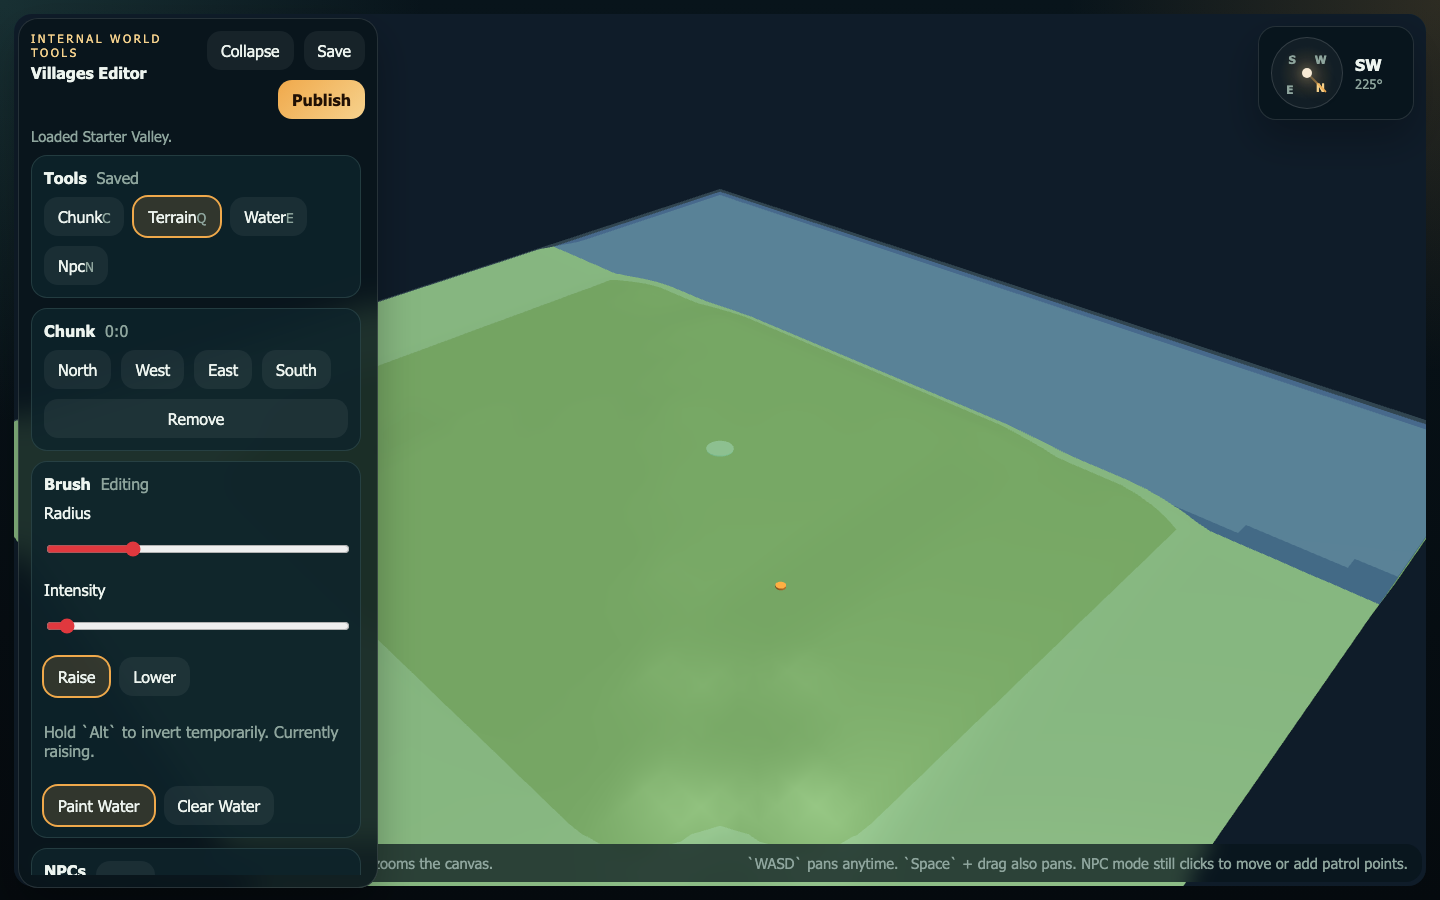
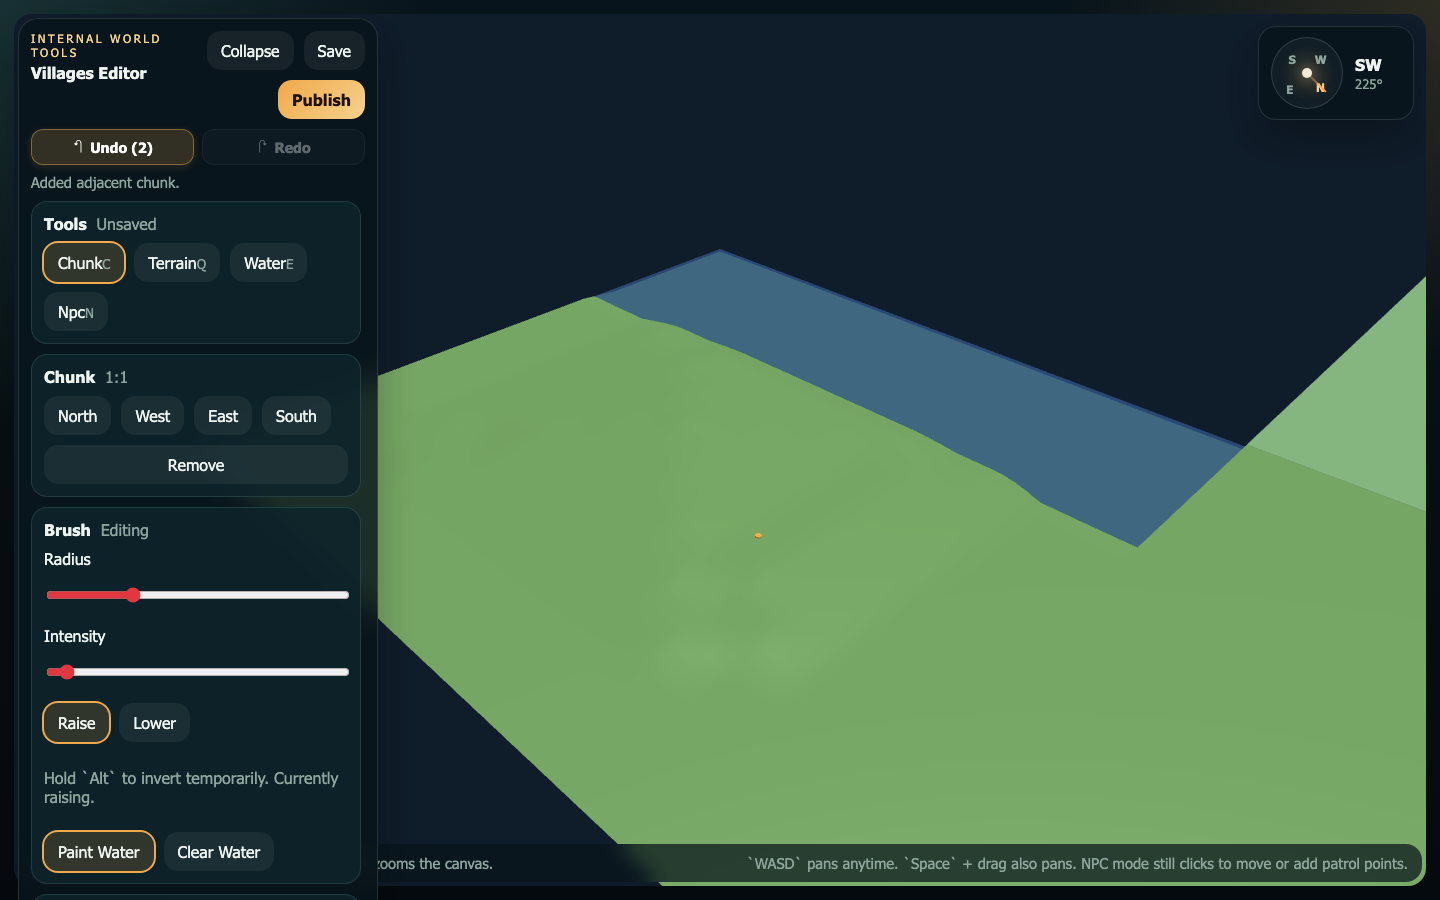
feat(editor): villages#1 Add dedicated undo/redo toolbar row and verified multi-state screenshots

diff --git a/apps/editor/components/map-editor-shell.tsx b/apps/editor/components/map-editor-shell.tsx
@@ -499,22 +499,6 @@ export function MapEditorShell() {
             <div className="toolbar-actions">
               <button
                 className="secondary-button"
-                disabled={!canUndo(history)}
-                onClick={handleUndo}
-                title="Undo (⌘Z / Ctrl+Z)"
-              >
-                Undo {history.undoStack.length > 0 ? `(${history.undoStack.length})` : ""}
-              </button>
-              <button
-                className="secondary-button"
-                disabled={!canRedo(history)}
-                onClick={handleRedo}
-                title="Redo (⇧⌘Z / Ctrl+Y)"
-              >
-                Redo {history.redoStack.length > 0 ? `(${history.redoStack.length})` : ""}
-              </button>
-              <button
-                className="secondary-button"
                 onClick={() => setControlsCollapsed((value) => !value)}
               >
                 {controlsCollapsed ? "Expand" : "Collapse"}
@@ -534,6 +518,28 @@ export function MapEditorShell() {
                 Publish
               </button>
             </div>
+          </div>
+          <div className="history-toolbar-row">
+            <button
+              className="history-button"
+              data-testid="undo-button"
+              disabled={!canUndo(history)}
+              onClick={handleUndo}
+              title="Undo (⌘Z / Ctrl+Z)"
+            >
+              <span>↶</span> Undo{" "}
+              {history.undoStack.length > 0 ? `(${history.undoStack.length})` : ""}
+            </button>
+            <button
+              className="history-button"
+              data-testid="redo-button"
+              disabled={!canRedo(history)}
+              onClick={handleRedo}
+              title="Redo (⇧⌘Z / Ctrl+Y)"
+            >
+              <span>↷</span> Redo{" "}
+              {history.redoStack.length > 0 ? `(${history.redoStack.length})` : ""}
+            </button>
           </div>
           <p className="toolbar-status">{status}</p>
           {!controlsCollapsed ? (

diff --git a/apps/editor/app/globals.css b/apps/editor/app/globals.css
@@ -270,6 +270,45 @@ button {
   font-size: 0.82rem;
 }
 
+.history-toolbar-row {
+  display: grid;
+  grid-template-columns: 1fr 1fr;
+  gap: 8px;
+  margin-top: 10px;
+}
+
+.history-button {
+  border: 1px solid rgba(255, 255, 255, 0.12);
+  border-radius: 12px;
+  padding: 8px 12px;
+  color: var(--text);
+  background: rgba(255, 255, 255, 0.06);
+  font-weight: 600;
+  font-size: 0.88rem;
+  display: flex;
+  align-items: center;
+  justify-content: center;
+  gap: 6px;
+  transition: all 0.15s ease;
+}
+
+.history-button:disabled {
+  opacity: 0.38;
+  cursor: not-allowed;
+}
+
+.history-button:not(:disabled) {
+  background: rgba(240, 169, 75, 0.18);
+  border-color: rgba(240, 169, 75, 0.45);
+  color: #ffffff;
+  cursor: pointer;
+  box-shadow: 0 2px 8px rgba(240, 169, 75, 0.15);
+}
+
+.history-button:not(:disabled):hover {
+  background: rgba(240, 169, 75, 0.28);
+}
+
 .primary-button,
 .secondary-button,
 .danger-button,
